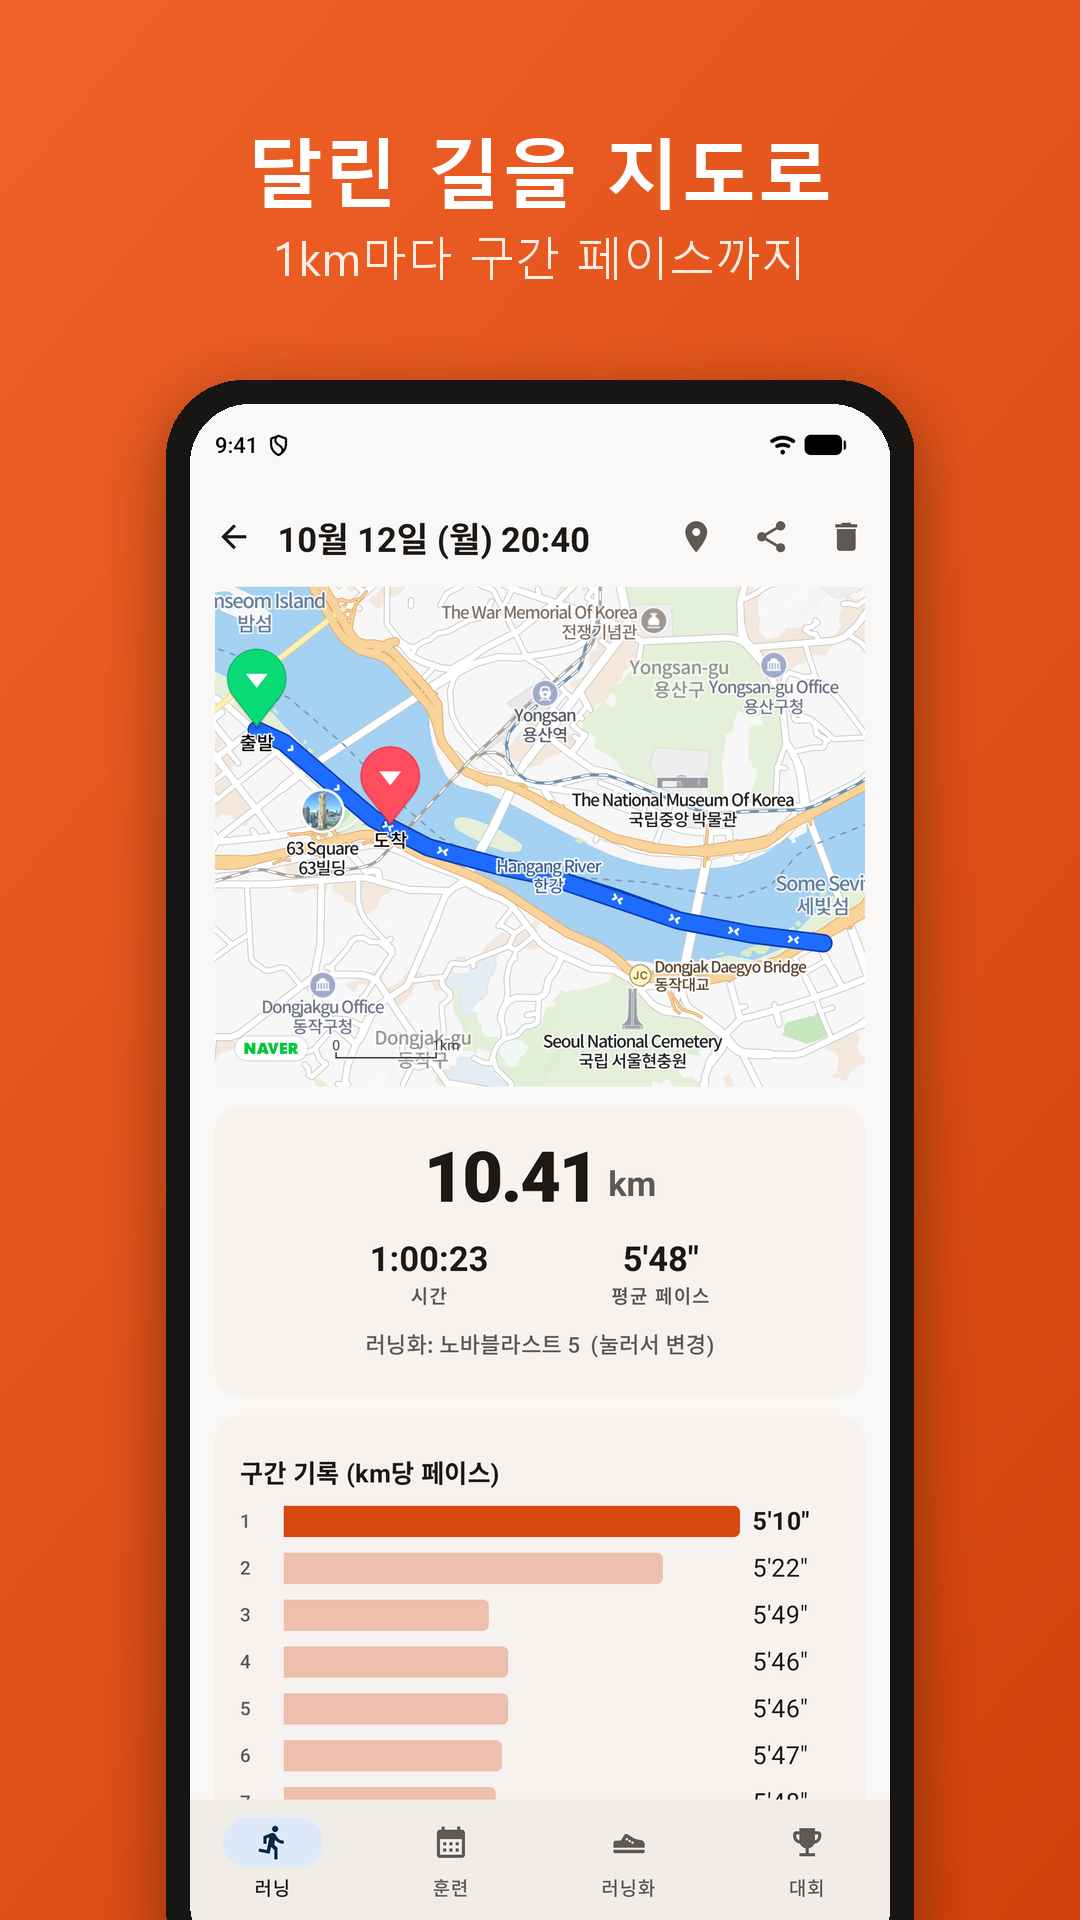
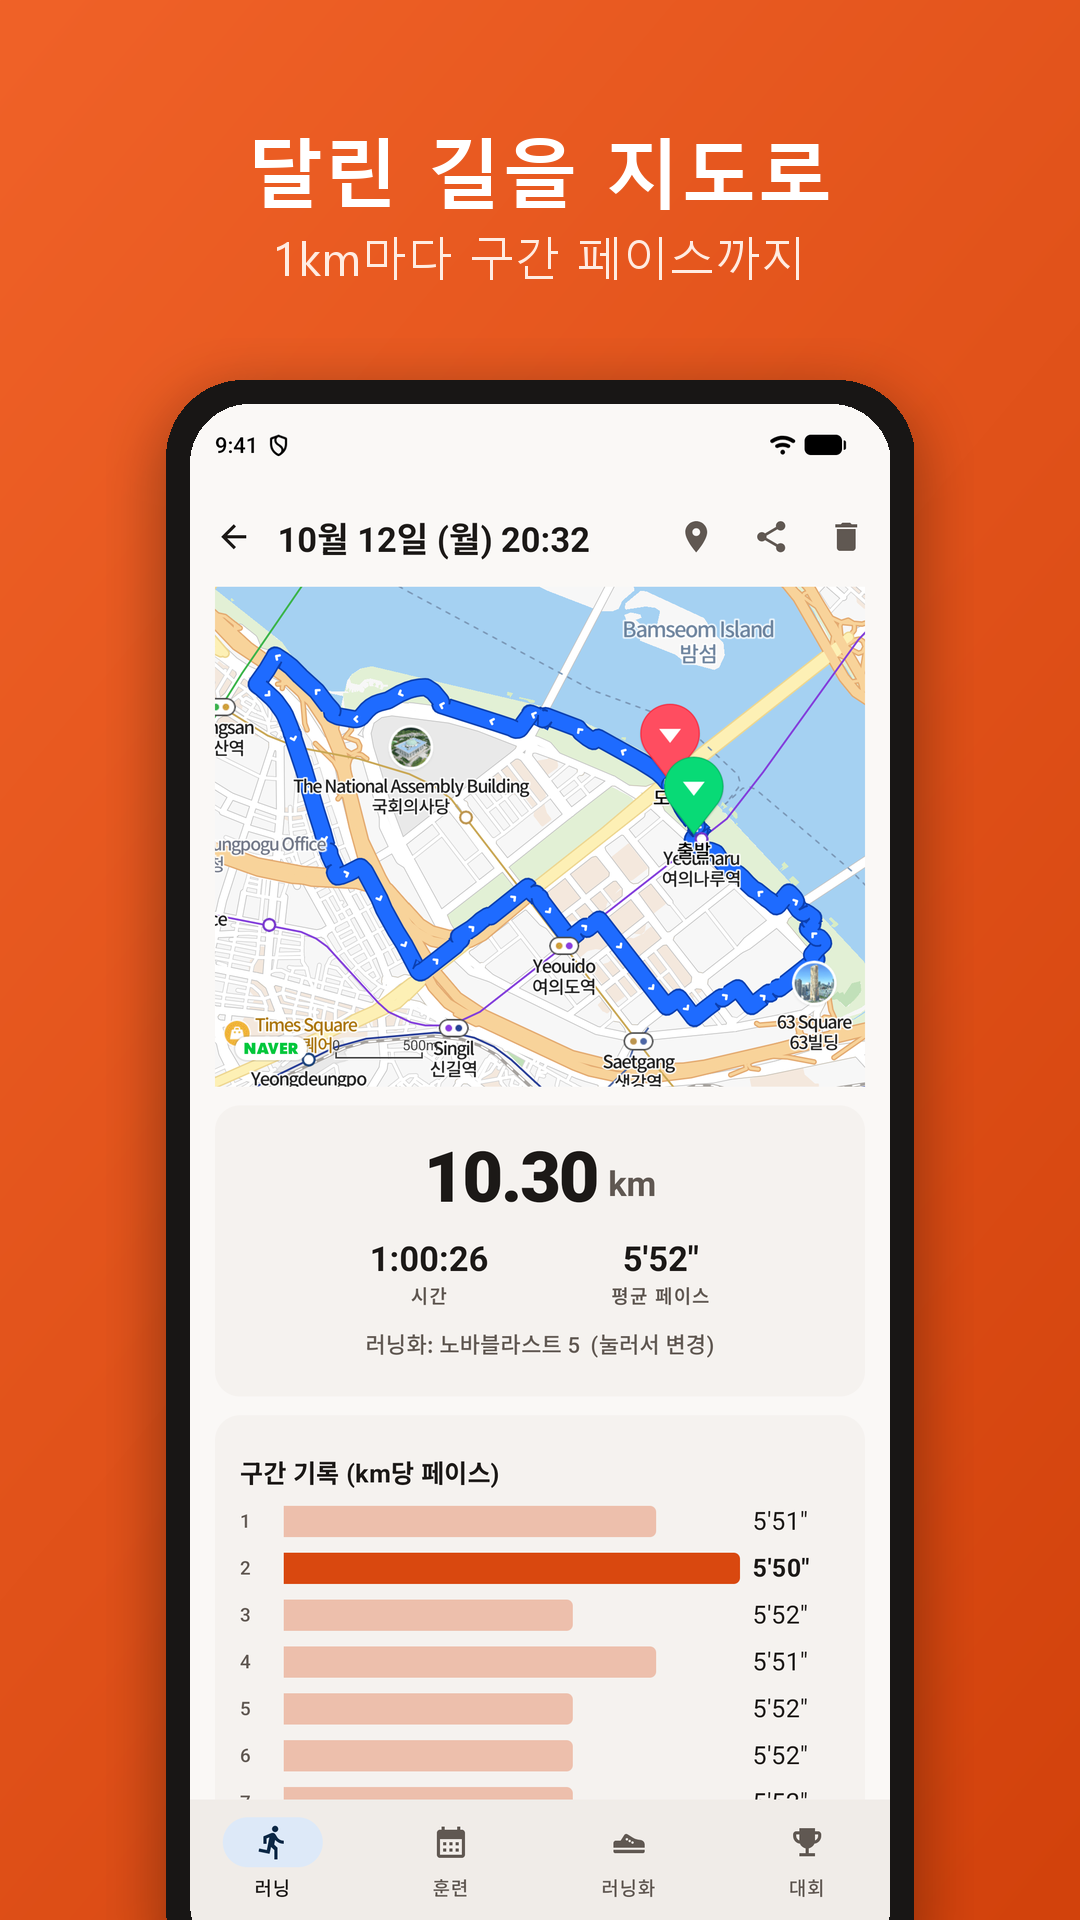
Fix straight lines between runs on the all-routes map; reshoot map assets
- RouteMap drew every point as one path, so the all-routes map joined each
  run's end to the next run's start with a straight line across buildings
  and the river. Add joinSegments and draw one path per run there; run
  detail still joins pause gaps as before
- Demo routes now follow real walking paths around Yeouido (from OSRM)
  instead of guessed coordinates that ran over the Han River; reshoot the
  run, run detail and all-routes screenshots, the feature graphic and the
  landing page images

Changed region(s): [[0.1833, 0.2812, 0.825, 0.5938], [0.2444, 0.7812, 0.7639, 0.9375], [0.4889, 0.5938, 0.55, 0.625]]

diff --git a/app/src/main/java/com/runner/app/ui/run/RouteMap.kt b/app/src/main/java/com/runner/app/ui/run/RouteMap.kt
@@ -40,7 +40,7 @@ private fun dp(v: Int) = (v * android.content.res.Resources.getSystem().displayM
  */
 @SuppressLint("ClickableViewAccessibility")
 @Composable
-fun RouteMap(points: List<TrackPoint>, modifier: Modifier = Modifier, follow: Boolean = false, markers: Boolean = true) {
+fun RouteMap(points: List<TrackPoint>, modifier: Modifier = Modifier, follow: Boolean = false, markers: Boolean = true, joinSegments: Boolean = true) {
     val context = LocalContext.current
     val lineColor = ROUTE_BLUE
     // 지도는 비동기로 준비된다. 준비 전 들어온 points는 준비되는 순간 다시 그린다.
@@ -50,7 +50,7 @@ fun RouteMap(points: List<TrackPoint>, modifier: Modifier = Modifier, follow: Bo
             onCreate(null)
             getMapAsync { map ->
                 state.map = map
-                state.draw(state.lastPoints, lineColor, follow, markers)
+                state.draw(state.lastPoints, lineColor, follow, markers, joinSegments)
             }
             // 스크롤 목록 안에서도 지도 드래그가 먹히도록
             setOnTouchListener { v, _ ->
@@ -80,7 +80,7 @@ fun RouteMap(points: List<TrackPoint>, modifier: Modifier = Modifier, follow: Bo
 
     AndroidView(factory = { mapView }, modifier = modifier, update = {
         state.lastPoints = points
-        state.draw(points, lineColor, follow, markers)
+        state.draw(points, lineColor, follow, markers, joinSegments)
     })
 }
 
@@ -90,14 +90,17 @@ private class MapState {
     private var fitted = false
     private val overlays = mutableListOf<Overlay>()
 
-    fun draw(points: List<TrackPoint>, lineColor: Int, follow: Boolean, markers: Boolean) {
+    /** [joinSegments]가 false면 segment마다 선을 따로 그린다(서로 다른 러닝을 겹쳐 볼 때). */
+    fun draw(points: List<TrackPoint>, lineColor: Int, follow: Boolean, markers: Boolean, joinSegments: Boolean) {
         val map = map ?: return
         overlays.forEach { it.map = null }
         overlays.clear()
         val geo = points.map { LatLng(it.lat, it.lng) }
         // 일시정지 전후도 한 선으로 잇고, 멈춘 자리(segment가 바뀌기 직전 점)에 마커를 단다 (PathOverlay는 2점 이상 필요)
-        if (geo.size >= 2) {
-            overlays += PathOverlay(geo).apply {
+        val paths = if (joinSegments) listOf(geo)
+            else points.indices.groupBy { points[it].segment }.values.map { idx -> idx.map(geo::get) }
+        paths.filter { it.size >= 2 }.forEach { path ->
+            overlays += PathOverlay(path).apply {
                 // 네비게이션처럼 굵은 파란 선 + 진한 테두리 + 진행 방향 화살표 (px 단위라 dp로 환산)
                 color = lineColor
                 width = dp(10)

diff --git a/app/src/main/java/com/runner/app/ui/run/AllRoutesScreen.kt b/app/src/main/java/com/runner/app/ui/run/AllRoutesScreen.kt
@@ -33,6 +33,6 @@ fun AllRoutesScreen(onBack: () -> Unit) {
             windowInsets = WindowInsets(0),
             navigationIcon = { IconButton(onClick = onBack) { Icon(Icons.AutoMirrored.Filled.ArrowBack, "뒤로") } },
         )
-        RouteMap(points, Modifier.fillMaxSize(), markers = false)
+        RouteMap(points, Modifier.fillMaxSize(), markers = false, joinSegments = false)
     }
 }
